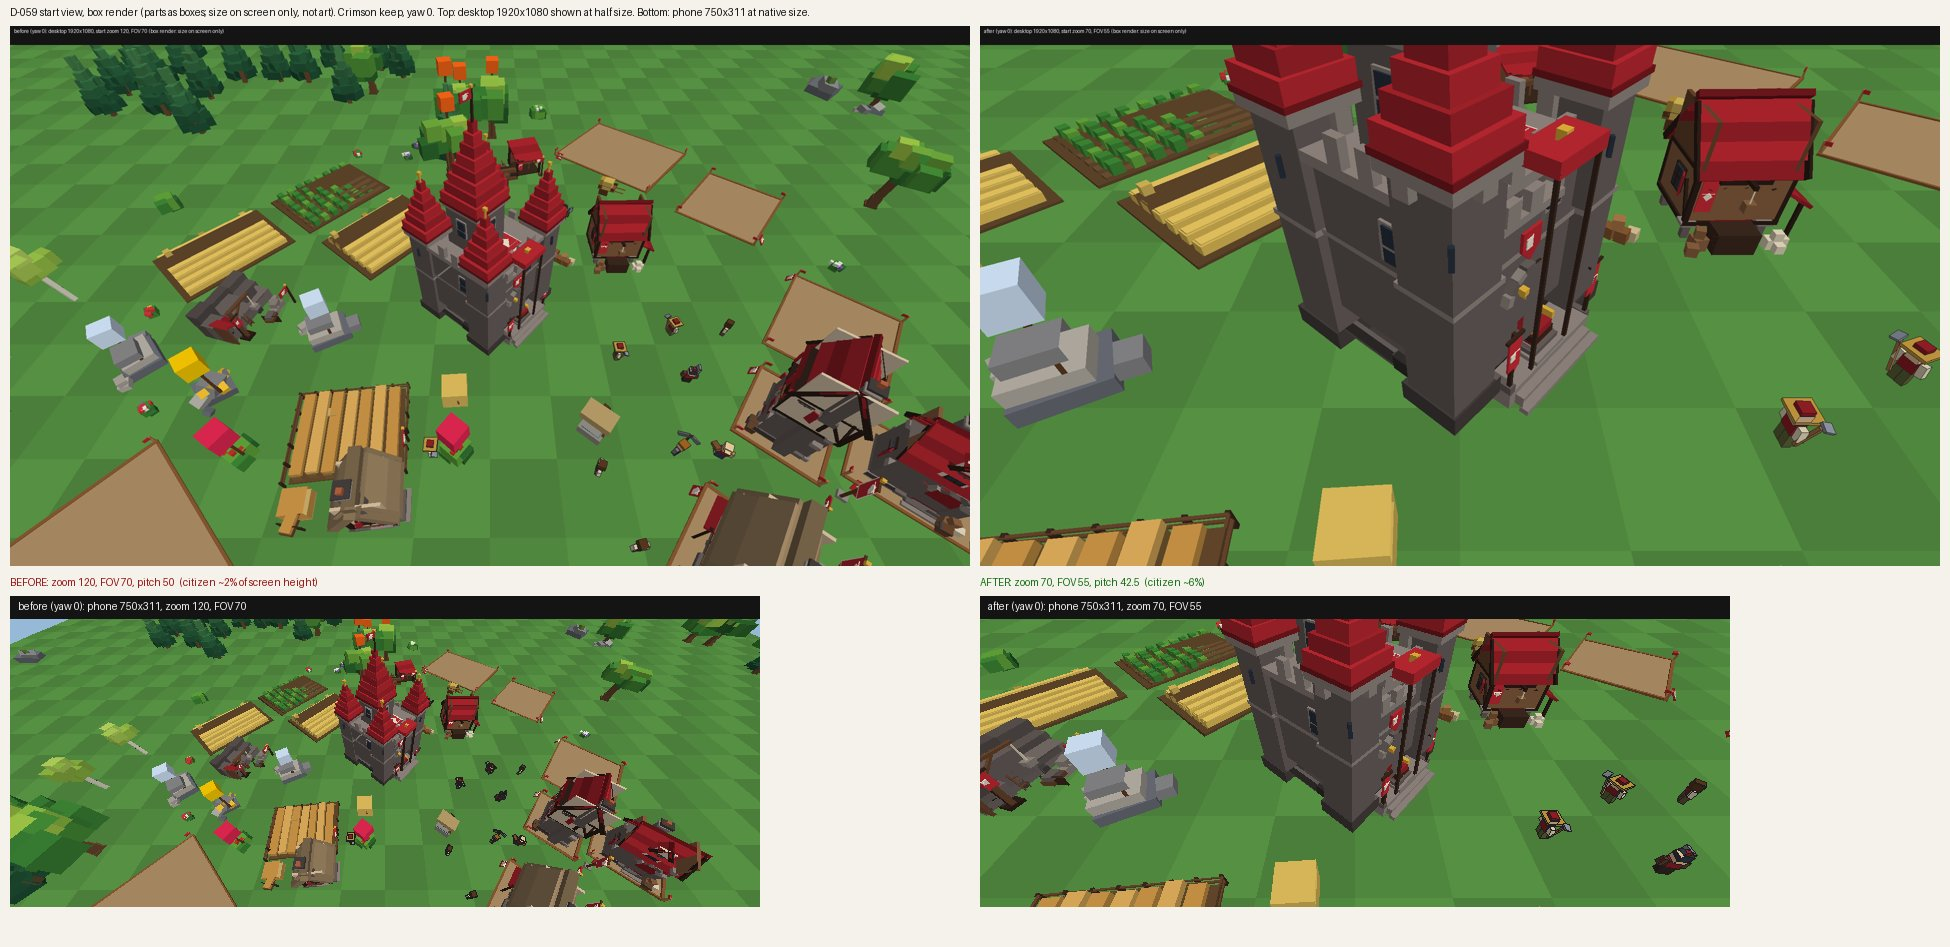
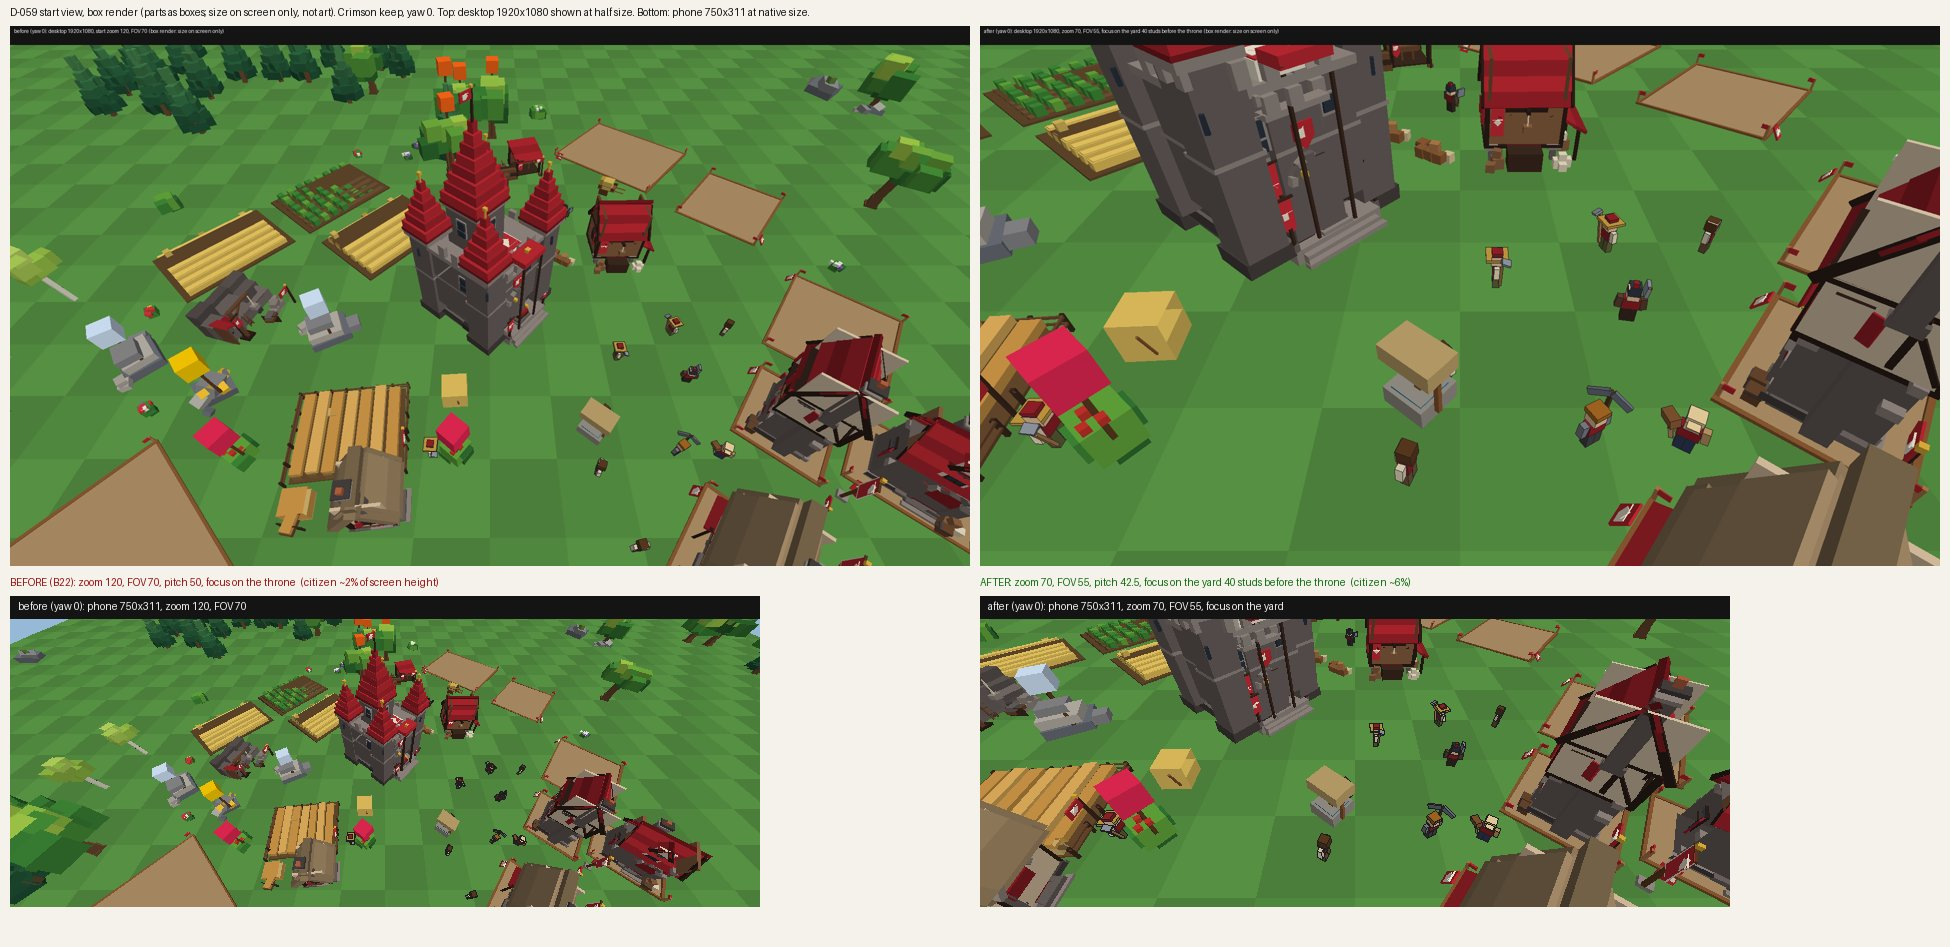
FORGE-04 D-059: the first view centres the yard 40 studs in front of the throne, not the throne (FORGE-00)
At zoom 70 the throne focus put the keep's roof in the middle of the screen.
Def.startFocus(root, overview.startAhead = 40) moves the first focus along
the ruler's level facing (out of the keep door), so the village and its
citizens fill the centre and the keep sits at the edge.

- Specs: startFocus() (ahead along the level facing; a root facing straight
  down keeps its place); the start view is >= 30 studs in front of the throne,
  level, the way the ruler faces. FL-0090 rows: 3 new, 3/3 CAUGHT; the _apply
  call site is noted as equivalent (no spec reaches it: the character path
  sets the focus first).
- E22 step 1 and the before/after box render redone with the yard focus.

Claude-Session: https://claude.ai/code/session_01SepDiqLbqgqFcPE9ArTSK5

Changed region(s): [[0.4923, 0.0306, 1.0, 0.9799], [0.0308, 0.6125, 0.1538, 0.6431], [0.1846, 0.6125, 0.2154, 0.6431]]

diff --git a/roblox/tests/unit/experience/mutations/FL-0090.py b/roblox/tests/unit/experience/mutations/FL-0090.py
@@ -29,4 +29,10 @@ M = [
  ("FL-0090", C2+"RulerCameraController.luau", 'zoom = 35,', 'zoom = 30,', "RulerCamera", "on a phone the citizen's head", "game"),
  ("FL-0090", C2+"RulerCameraController.luau", 'phoneOffset = Vector2.new(0, -7.5),', 'phoneOffset = Vector2.new(0, -12),', "RulerCamera", "on a phone the citizen's head", "game"),
  ("FL-0090", G+"config/Crowd.luau", 'standZoom = 74, ringZoom = 108,', 'standZoom = 55, ringZoom = 80,', "CrowdStage", "the intro: one horn", "game"),
+ # D-059: the first view centres the yard in front of the keep (FORGE-00)
+ ("FL-0090", C2+"RulerCameraController.luau", 'startAhead = 40, -- studs', 'startAhead = 0, -- studs', "RulerCamera", "starts in the overview over the yard", "game"),
+ ("FL-0090", C2+"RulerCameraController.luau", 'if look.Magnitude < 1e-3 then\n\t\treturn root.Position\n\tend\n', '', "RulerCamera", "startFocus() is `ahead` studs", "game"),
+ # (left out, equivalent: the startFocus call in _apply runs only when no character set the focus first,
+ # which no spec can reach; _onCharacter's call is the row below)
+ ("FL-0090", C2+"RulerCameraController.luau", 'self:focusOn(Def.startFocus(root.CFrame, self._config.overview.startAhead or 0)) -- the yard', 'self:focusOn(root.CFrame.Position) -- the yard', "RulerCamera", "starts in the overview over the yard", "game"),
 ]

diff --git a/roblox/studio-tests/experience.md b/roblox/studio-tests/experience.md
@@ -749,12 +749,12 @@ History:
 
 ## E22 — The default aerial framing (D-059, FL-0145, game-001)
 
-The owner's B22 review found citizens barely recognisable from the start view. At zoom 120 and a 70° field of view, a citizen stood about 2 % of the screen's height: about 23 px at 1080p and 8 pt on a phone. The overview now starts at **zoom 70** with a **55° field of view** (pitch 42.5°), so a citizen stands about 6 %. The zoom limits (40–220) and the player's own zoom are unchanged. Walk mode and the duel keep Roblox's 70°. The conversation shot and the arena intro shots were re-tuned so they frame what they did.
+The owner's B22 review found citizens barely recognisable from the start view. At zoom 120 and a 70° field of view, a citizen stood about 2 % of the screen's height: about 23 px at 1080p and 8 pt on a phone. The overview now starts at **zoom 70** with a **55° field of view** (pitch 42.5°), so a citizen stands about 6 %. The view is centred on the **yard 40 studs in front of your throne**, not the throne itself, so the village and its people fill the middle rather than the keep's roof. The zoom limits (40–220) and the player's own zoom are unchanged. Walk mode and the duel keep Roblox's 70°. The conversation shot and the arena intro shots were re-tuned so they frame what they did.
 
 Needs: nothing (Play Solo). FORGE-02's FL-0145 pass 1 changes the look at the same time; judge the framing (how big and readable things are), not the art.
 
 Steps
-1. Play Solo on a desktop window (about 1920×1080). At spawn you see your keep from the aerial view. Citizens near the keep are clearly people: you can tell head, body and what they carry. Screenshot **E22-1**, and compare it with your B22 screenshot from the same spot.
+1. Play Solo on a desktop window (about 1920×1080). At spawn the aerial view is centred on the yard in front of your keep, with the keep at the edge of the picture. Citizens are clearly people: you can tell head, body and what they carry. Screenshot **E22-1**, and compare it with your B22 screenshot from the same spot.
 2. Device emulator, a phone in landscape (for example 750×311, or the smallest phone you have). Repeat step 1. Citizens are small but readable, and tapping one is easy. Screenshot **E22-2**.
 3. Zoom all the way out with the wheel or a pinch: it still goes as far as before (220 studs), and the whole kingdom fits. Zoom all the way in: it still stops at 40.
 4. Press V for walk mode. The view looks like Roblox's normal third-person camera, with no narrow "tunnel" feel. Press V again: the aerial view comes back with no jump.
@@ -764,4 +764,4 @@ Steps
 Pass: steps 1–5 hold (6 when an arena runs). Write what you think of the closer start view: too close, right, or still too far.
 
 History:
-- 2026-10-19 FORGE-04: written (D-059; FORGE-00 approved the zoom 70 / 55° framing).
+- 2026-10-19 FORGE-04: written (D-059; FORGE-00 approved the zoom 70 / 55° framing and the yard focus).
